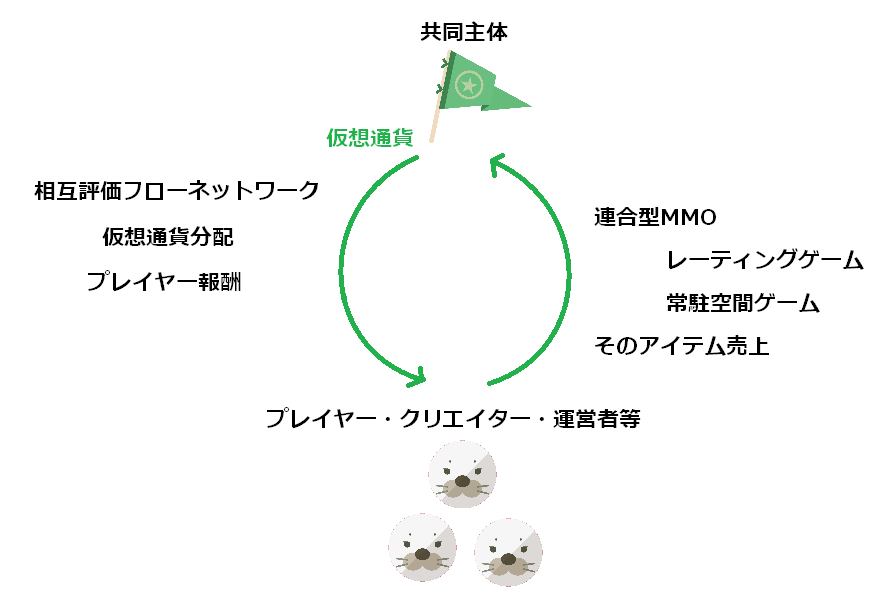
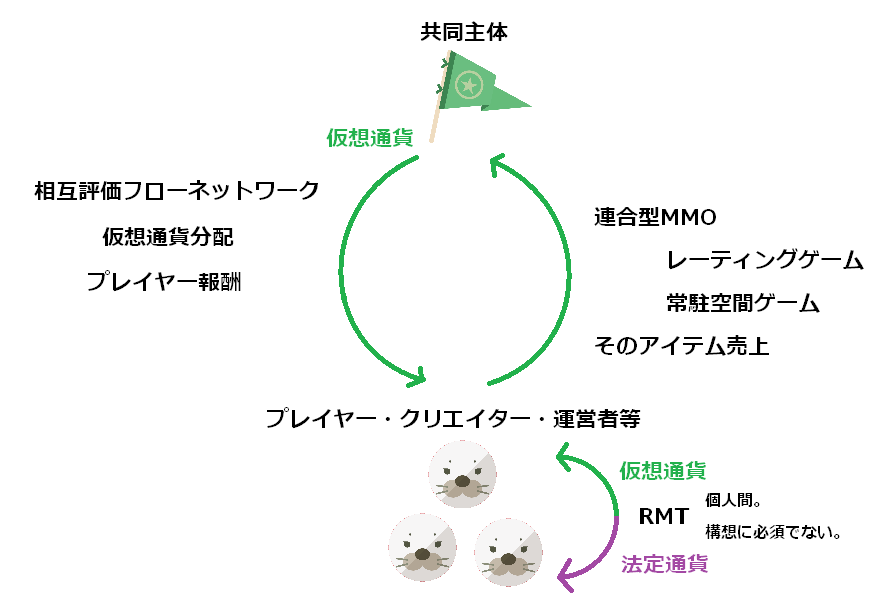
単純化された図

diff --git a/README.md b/README.md
@@ -32,6 +32,7 @@ Tenyuについて身近なたとえで説明すると
 [twitter](https://twitter.com/lifeinwild)
 
 # 目次  
+- [単純化された図](#単純化された図)
 - [目的](#目的)
 - [プロジェクトの状況](#プロジェクトの状況)
 - [ソフトウェアの状況](#ソフトウェアの状況)
@@ -169,6 +170,12 @@ Tenyuについて身近なたとえで説明すると
   - [交換リングとの共通点について](#交換リングとの共通点について)
   - [AI対策](#AI対策)
 
+# 単純化された図
+全体を最大限単純化するとこんな感じです。
+![Alt text](readmeImg/baseCycle.png)   
+- 共同主体は[相互評価フローネットワーク](#相互評価フローネットワーク)や[プレイヤー報酬](#プレイヤー報酬)で[仮想通貨を人々に分配します](#仮想通貨分配)。  
+- [連合型MMO](#連合型MMO)によって[仮想通貨の使途を作り](#仮想経済)人々から共同主体へ仮想通貨を回収します。連合型MMOにおける[有料アイテム](#アイテム)を仮想通貨で購入できて、支払われた仮想通貨は[共同主体](#共同主体の重要性)に回収されます。
+
 # 目的  
 一般論としてソフトウェアはいくつかの問題を抱えていました。
 ソフトウェアを有料化するためにわざわざ一部機能を無効化するコードを入れたり、[ソフトウェア特許に関する紛争](#ソフトウェア特許問題)が増えたり、他の人のソフトウェアに何かアイデアを思いついても自由に改修できない状況がありました。他にも世界中で使用されるプログラムやWEBサイトを作ってもほとんど収益化できない事がありました。特にライブラリ等の背後で使われているものは広告モデルも適さず収益化する手段がほとんどありませんでした。  
@@ -182,13 +189,9 @@ Tenyuについて身近なたとえで説明すると
 [コンテンツ消費問題](#コンテンツ消費問題)  
 [エンドコンテンツ問題](#エンドコンテンツ問題)  
 MMOの問題に関しても構想としては解決できたと思っています。  
-
 私は昔からそのような考察を良くします。ただ自分の状況をどうにかするというだけでなく、一般に、普遍的に同種の問題をまとめて解決するにはどうすればいいか。つまり自分のソフトウェアをマネタイズするだけでなくソフトウェアのマネタイズ問題を一般的に解決する汎用的なシステムを作れないかとか、特定のMMOが特定の状況を脱するだけでなくMMOのモデル上の根本的問題は何かとか。
 
 ソフトウェア一般の収益化問題とMMOというゲームの問題は一見関係が無さそうですが、そうではありません。MMOはクリエイターによる制作、サーバーによるサービス提供、ユーザーによるアイテムの購入や使用に至るまで最も純粋に[オンラインで完結しうる特殊な経済](#MMOとは何か)で、その制作はほぼ純粋にソフトウェア制作であり、ソフトウェアの自由な相互利用が促進された場合MMOの開発効率は飛躍的に高まります。だからネット全体に跨るソフトウェアの汎用的収益化システムを構想するならMMOは考慮する価値があります。そして私はMMOを組み込む事でソフトウェアのマネタイズ問題を（構想上）解決しました。
-
-単純化するとこんな感じです。[連合型MMO](#連合型MMO)によって[仮想通貨](#仮想通貨)の使途を作り価値を持たせて、連合型MMOにおける[有料アイテム](#アイテム)を仮想通貨で購入できて、支払われた仮想通貨は[共同主体](#共同主体の重要性)に回収され、共同主体は[相互評価フローネットワーク](#相互評価フローネットワーク)を通じて各種クリエイターら（[プレイヤー報酬もある](#プレイヤー報酬)）に[仮想通貨を分配します](#仮想通貨分配)。  
-![Alt text](readmeImg/baseCycle.png)   
 
 さらに、従来のP2P技術は問題がありました。四六時中演算量を注ぎ続けて消費電力を食ったり、CPU以外のハードウェアで演算量を効率良く稼げてしまい一般ユーザーを出し抜けてしまう事で実際の多数派が演算量において多数派にならなかったり、P2Pネットワークで共有されたDBの更新性能が低かったりしました。さらに、演算量以外の信用ソースを持ちえないという問題がありました。
 これらの問題も[解決されました](#P2P技術)。
